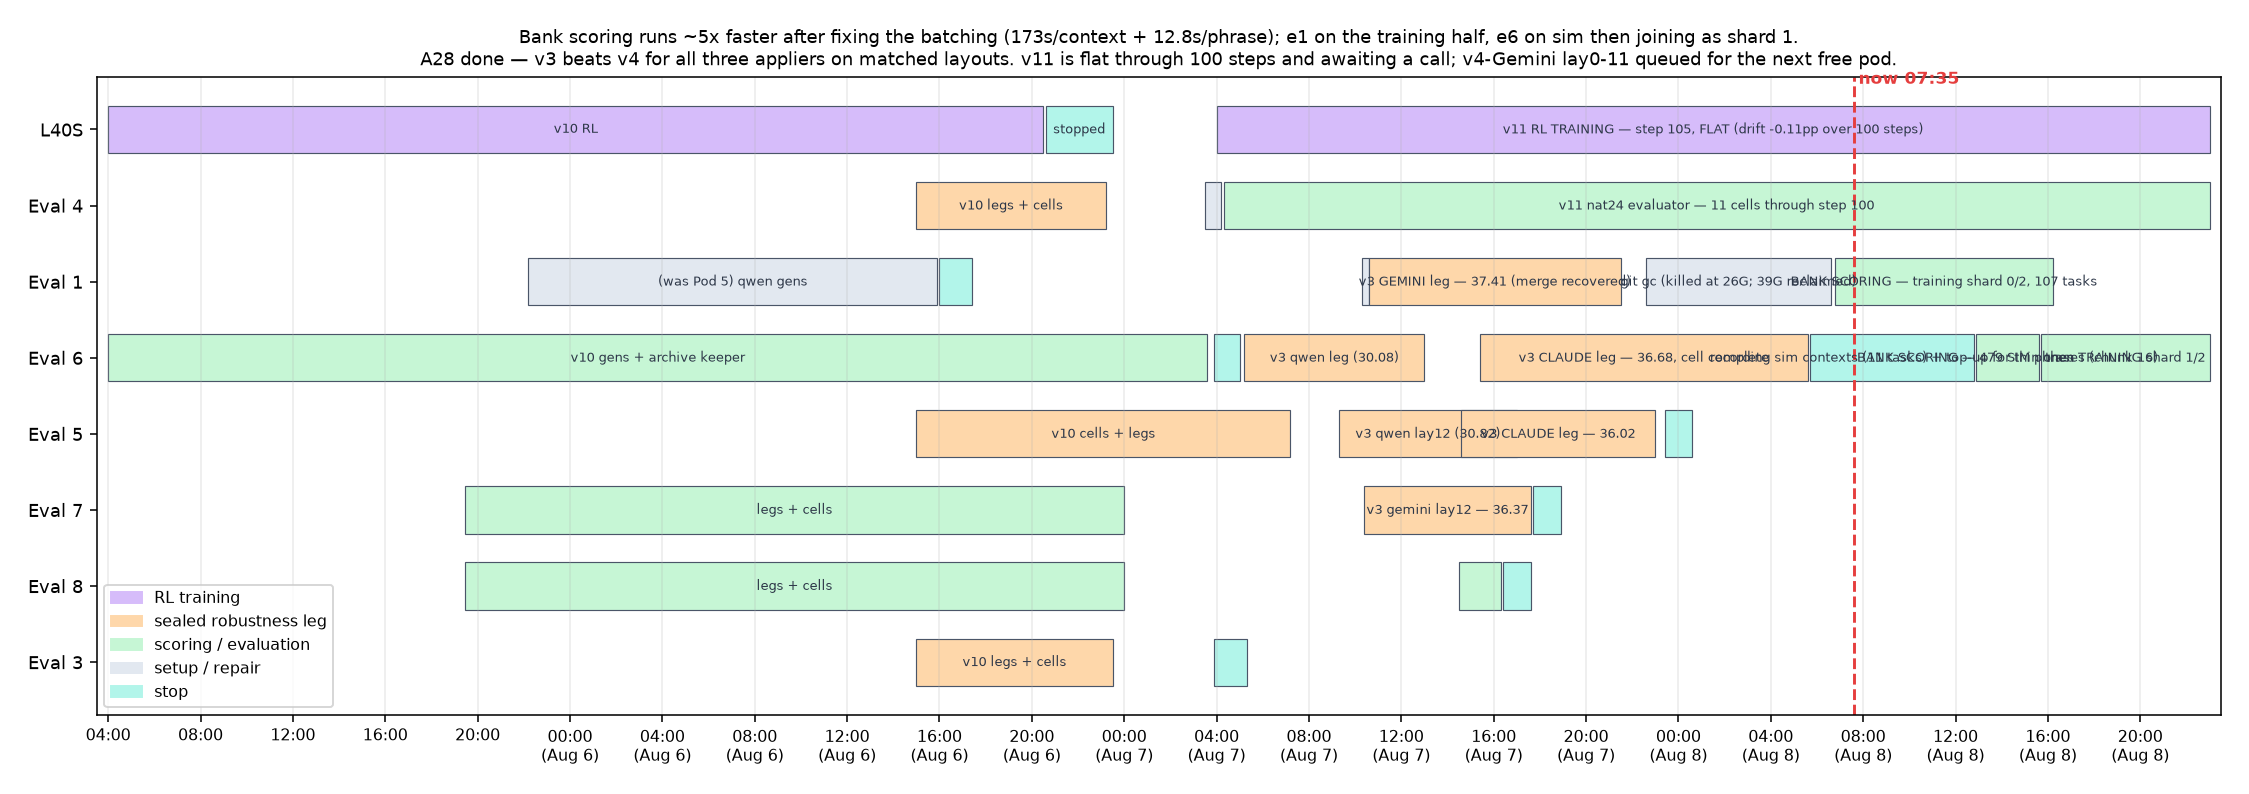
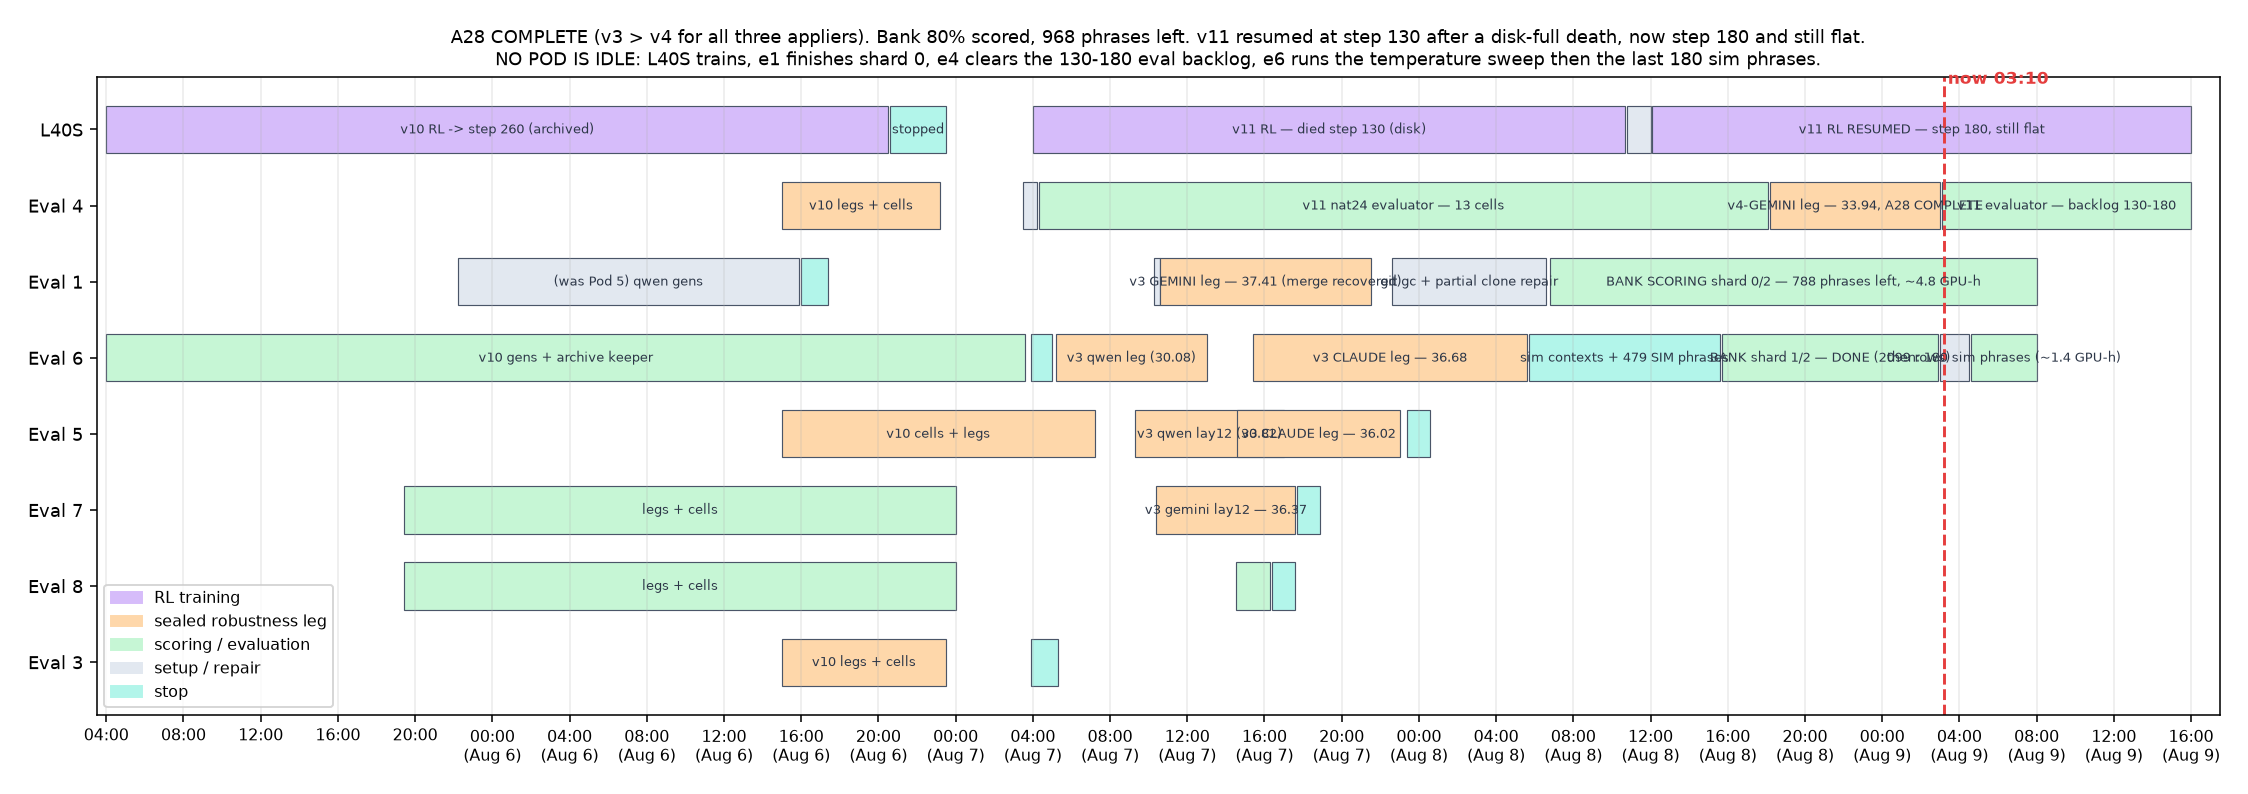
gantt: A28 complete, bank 80%, v11 resumed and at step 180, all four pods assigned

diff --git a/scripts/make_fleet_gantt.py b/scripts/make_fleet_gantt.py
@@ -9,24 +9,29 @@ from matplotlib.patches import Patch
 
 C = {"sealed": "#a3bffa", "rr": "#fed7aa", "gen": "#b2f5ea",
      "train": "#d6bcfa", "worker": "#c6f6d5", "setup": "#e2e8f0"}
-NOW = 79.6  # 07:35 Aug 8 UTC (hours from 00:00 Aug 5)
+NOW = 99.2  # 03:10 Aug 9 UTC (hours from 00:00 Aug 5)
 
 ROWS = [
-    ("L40S",    [("v10 RL", 4.0, 44.5, "train"), ("stopped", 44.6, 47.5, "gen"),
-                 ("v11 RL TRAINING — step 105, FLAT (drift -0.11pp over 100 steps)", 52.0, 95.0, "train")]),
+    ("L40S",    [("v10 RL -> step 260 (archived)", 4.0, 44.5, "train"), ("stopped", 44.6, 47.5, "gen"),
+                 ("v11 RL — died step 130 (disk)", 52.0, 82.7, "train"),
+                 ("rebuilt venvs", 82.8, 84.0, "setup"),
+                 ("v11 RL RESUMED — step 180, still flat", 84.1, 112.0, "train")]),
     ("Eval 4",  [("v10 legs + cells", 39.0, 47.2, "rr"), ("gen-stack", 51.5, 52.2, "setup"),
-                 ("v11 nat24 evaluator — 11 cells through step 100", 52.3, 95.0, "worker")]),
+                 ("v11 nat24 evaluator — 13 cells", 52.3, 90.1, "worker"),
+                 ("v4-GEMINI leg — 33.94, A28 COMPLETE", 90.2, 99.0, "rr"),
+                 ("v11 evaluator — backlog 130-180", 99.1, 112.0, "worker")]),
     ("Eval 1",  [("(was Pod 5) qwen gens", 22.2, 39.9, "setup"), ("retired", 40.0, 41.4, "gen"),
                  ("repair + disk rescue", 58.3, 58.6, "setup"),
                  ("v3 GEMINI leg — 37.41 (merge recovered)", 58.6, 69.5, "rr"),
-                 ("git gc (killed at 26G; 39G reclaimed)", 70.6, 78.6, "setup"),
-                 ("BANK SCORING — training shard 0/2, 107 tasks", 78.8, 88.2, "worker")]),
+                 ("git gc + partial clone repair", 70.6, 78.6, "setup"),
+                 ("BANK SCORING shard 0/2 — 788 phrases left, ~4.8 GPU-h", 78.8, 104.0, "worker")]),
     ("Eval 6",  [("v10 gens + archive keeper", 4.0, 51.6, "worker"), ("stopped", 51.9, 53.0, "gen"),
                  ("v3 qwen leg (30.08)", 53.2, 61.0, "rr"),
-                 ("v3 CLAUDE leg — 36.68, cell complete", 63.4, 77.6, "rr"),
-                 ("recording sim contexts (11 tasks) + top-up for thin ones", 77.7, 84.8, "gen"),
-                 ("BANK SCORING — 479 SIM phrases (chunk 16)", 84.9, 87.6, "worker"),
-                 ("then TRAINING shard 1/2", 87.7, 95.0, "worker")]),
+                 ("v3 CLAUDE leg — 36.68", 63.4, 77.6, "rr"),
+                 ("sim contexts + 479 SIM phrases", 77.7, 87.6, "gen"),
+                 ("BANK shard 1/2 — DONE (2099 rows)", 87.7, 98.9, "worker"),
+                 ("temp sweep: frozen vs v11", 99.0, 100.5, "setup"),
+                 ("then: 180 sim phrases (~1.4 GPU-h)", 100.6, 104.0, "worker")]),
     ("Eval 5",  [("v10 cells + legs", 39.0, 55.2, "rr"),
                  ("v3 qwen lay12 (30.82)", 57.3, 65.0, "rr"),
                  ("v3 CLAUDE leg — 36.02", 62.6, 71.0, "rr"),
@@ -46,22 +51,22 @@ for i, (pod, bars) in enumerate(ROWS):
         if e - s > 2.6:
             ax.text((s + e) / 2, y, label, ha="center", va="center", fontsize=6.6, color="#2d3748")
 ax.axvline(NOW, color="#e53e3e", lw=1.5, ls="--")
-ax.text(NOW + 0.2, len(ROWS) - 0.4, "now 07:35", color="#e53e3e", fontsize=8.5, fontweight="bold")
+ax.text(NOW + 0.2, len(ROWS) - 0.4, "now 03:10", color="#e53e3e", fontsize=8.5, fontweight="bold")
 ax.set_yticks(range(len(ROWS)))
 ax.set_yticklabels([p for p, _ in reversed(ROWS)], fontsize=9.5)
-ticks = list(range(4, 97, 4))
+ticks = list(range(4, 117, 4))
 ax.set_xticks(ticks)
-ax.set_xticklabels([f"{t % 24:02d}:00" + ("\n(Aug 6)" if 24 <= t < 48 else ("\n(Aug 7)" if 48 <= t < 72 else ("\n(Aug 8)" if 72 <= t < 96 else ""))) for t in ticks], fontsize=8)
-ax.set_xlim(3.5, 95.5)
+ax.set_xticklabels([f"{t % 24:02d}:00" + ("\n(Aug 6)" if 24 <= t < 48 else ("\n(Aug 7)" if 48 <= t < 72 else ("\n(Aug 8)" if 72 <= t < 96 else ("\n(Aug 9)" if t >= 96 else "")))) for t in ticks], fontsize=8)
+ax.set_xlim(3.5, 113.5)
 ax.grid(axis="x", alpha=0.25)
 ax.legend(handles=[Patch(color=C[k], label=l) for k, l in
                    [("train", "RL training"), ("rr", "sealed robustness leg"),
                     ("worker", "scoring / evaluation"), ("setup", "setup / repair"), ("gen", "stop")]],
           fontsize=8, loc="lower left")
-ax.set_title("Bank scoring runs ~5x faster after fixing the batching (173s/context + 12.8s/phrase); e1 on the training "
-             "half, e6 on sim then joining as shard 1.\n"
-             "A28 done — v3 beats v4 for all three appliers on matched layouts. v11 is flat through 100 steps and "
-             "awaiting a call; v4-Gemini lay0-11 queued for the next free pod.", fontsize=9.5)
+ax.set_title("A28 COMPLETE (v3 > v4 for all three appliers). Bank 80% scored, 968 phrases left. v11 resumed at step 130 "
+             "after a disk-full death, now step 180 and still flat.\n"
+             "NO POD IS IDLE: L40S trains, e1 finishes shard 0, e4 clears the 130-180 eval backlog, e6 runs the "
+             "temperature sweep then the last 180 sim phrases.", fontsize=9.5)
 fig.tight_layout()
 fig.savefig("results/charts/fleet_gantt.png", dpi=140, bbox_inches="tight", pad_inches=0.2)
 print("chart -> results/charts/fleet_gantt.png")
